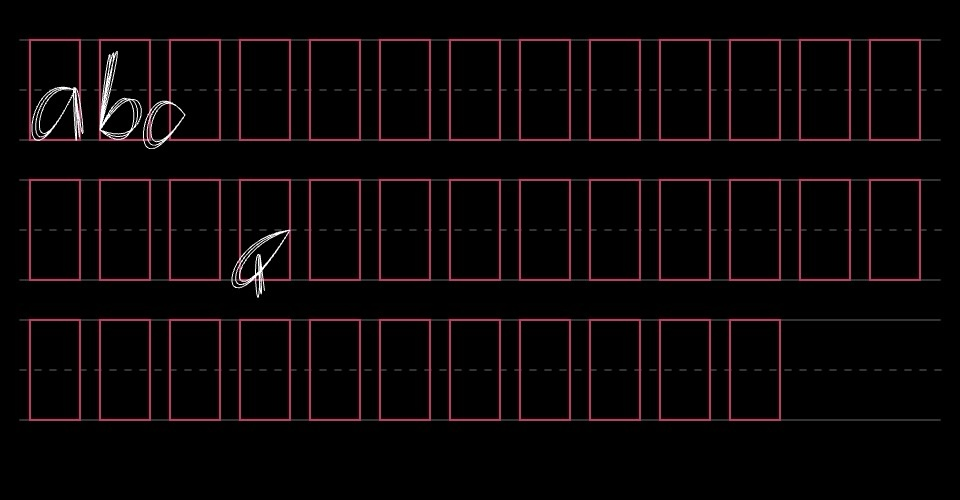
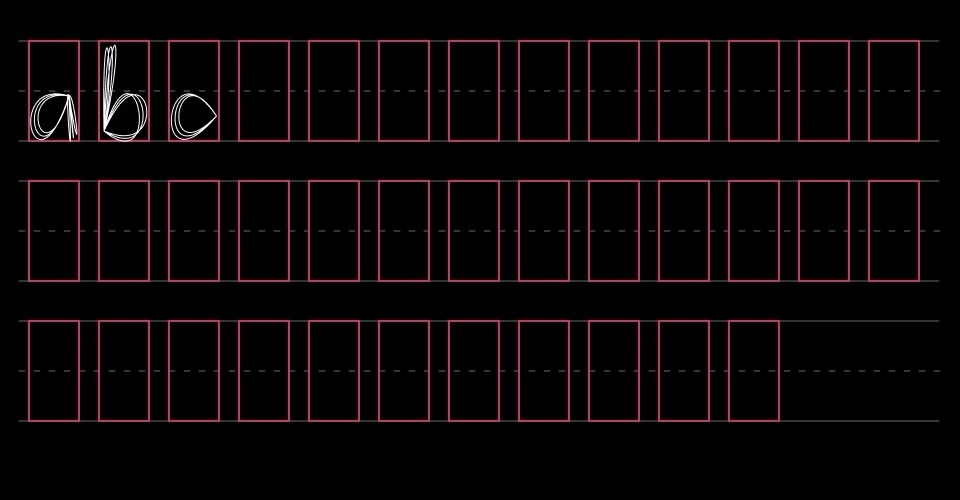
Aligning a, b, c in draw letters
From the sketch, I aligned the a, b, and c in using the lines in boxes

diff --git a/letters.js b/letters.js
@@ -9,52 +9,52 @@ const alphabet = {
     "offsetx": 0,
     "offsety": 17,
 
-    "AnchorX": 90,
-    "AnchorY": -50,
-    "firstControlX": -20,
-    "firstControlY": -100,
-    "secondControlX": -30,
-    "secondControlY": 200,
+    "AnchorX": 80,
+    "AnchorY": -40,
+    "firstControlX": -50,
+    "firstControlY": -80,
+    "secondControlX": 10,
+    "secondControlY": 175,
   
     "stem": true,
-    "secondAnchorX": 90,
-    "secondAnchorY": -50,
-    "twoFirstControlX": 80,
-    "twoFirstControlY": -100,
-    "twoSecondControlX": 100,
-    "twoSecondControlY": 200
+    "secondAnchorX": 80,
+    "secondAnchorY": -40,
+    "twoFirstControlX": 70,
+    "twoFirstControlY": -75,
+    "twoSecondControlX": 90,
+    "twoSecondControlY": 180
   },
   "B": {
     "size": 75,
     "offsetx": 0,
     "offsety": -70,
 
-    "AnchorX": 0,
+    "AnchorX": 10,
     "AnchorY": 30,
-    "firstControlX": 80,
-    "firstControlY": -150,
-    "secondControlX": 100,
-    "secondControlY": 120,
+    "firstControlX": 75,
+    "firstControlY": -180,
+    "secondControlX": 130,
+    "secondControlY": 130,
   
     "stem": true,
-    "secondAnchorX": 0,
+    "secondAnchorX": 10,
     "secondAnchorY": 30,
-    "twoFirstControlX": 40,
-    "twoFirstControlY": -210,
-    "twoSecondControlX": 10,
-    "twoSecondControlY": -130
+    "twoFirstControlX": 5,
+    "twoFirstControlY": -250,
+    "twoSecondControlX": 35,
+    "twoSecondControlY": -125
   },
   "C": {
     "size": 50,
     "offsetx": 15,
     "offsety": 0,
 
-    "AnchorX": 30,
+    "AnchorX": 95,
     "AnchorY": 0,
-    "firstControlX": -60,
-    "firstControlY": -120,
-    "secondControlX": -100,
-    "secondControlY": 200,
+    "firstControlX": -10,
+    "firstControlY": -155,
+    "secondControlX": -40,
+    "secondControlY": 160,
     
     "stem": false,
     "secondAnchorX": 0,
@@ -135,20 +135,20 @@ const alphabet = {
     "offsetx": 15,
     "offsety": 0,
 
-    "AnchorX": 100,
-    "AnchorY": -50,
-    "firstControlX": -60,
-    "firstControlY": -30,
-    "secondControlX": -50,
-    "secondControlY": 200,
+    // "AnchorX": 100,
+    // "AnchorY": -50,
+    // "firstControlX": -60,
+    // "firstControlY": -30,
+    // "secondControlX": -50,
+    // "secondControlY": 200,
   
-    "stem": true,
-    "secondAnchorX": 40,
-    "secondAnchorY": 0,
-    "twoFirstControlX": 20,
-    "twoFirstControlY": -20,
-    "twoSecondControlX": 40,
-    "twoSecondControlY": 200
+    // "stem": true,
+    // "secondAnchorX": 40,
+    // "secondAnchorY": 0,
+    // "twoFirstControlX": 20,
+    // "twoFirstControlY": -20,
+    // "twoSecondControlX": 40,
+    // "twoSecondControlY": 200
   },
   "R": {
     "size": 50,

diff --git a/sketch.js b/sketch.js
@@ -120,19 +120,6 @@ function drawLetter(posx, posy, letterData) {
     bezier(twoFirstBezierAnchorX, twoFirstBezierAnchorY, twoFirstBezierControlX + spacing, twoFirstBezierControlY + spacing, twoSecondBezierControlX + spacing, twoSecondBezierControlY - 2 * spacing, twoFirstBezierAnchorX, twoFirstBezierAnchorY);
     bezier(twoFirstBezierAnchorX, twoFirstBezierAnchorY, twoFirstBezierControlX + 2 * spacing, twoFirstBezierControlY + 2 * spacing, twoSecondBezierControlX + 2 * spacing, twoSecondBezierControlY - 4 * spacing, twoFirstBezierAnchorX, twoFirstBezierAnchorY);  
   }
-
-  push();
-  translate(width/2, height/2);
-  let c = 100*0.551915024494;
-  beginShape();
-  // vertex(0, 100);
-  // bezierVertex(-c, 100, 100, -c, 100, 0);
-  // bezierVertex(100,c,-c,-100,0,-100);
-  vertex(0, 100);
-  bezierVertex(c, 100, 100, c, 100, 0);
-  bezierVertex(100,-c,c,-100,0,-100);
-  endShape();
-  pop();
   }
 
 function keyTyped() {
